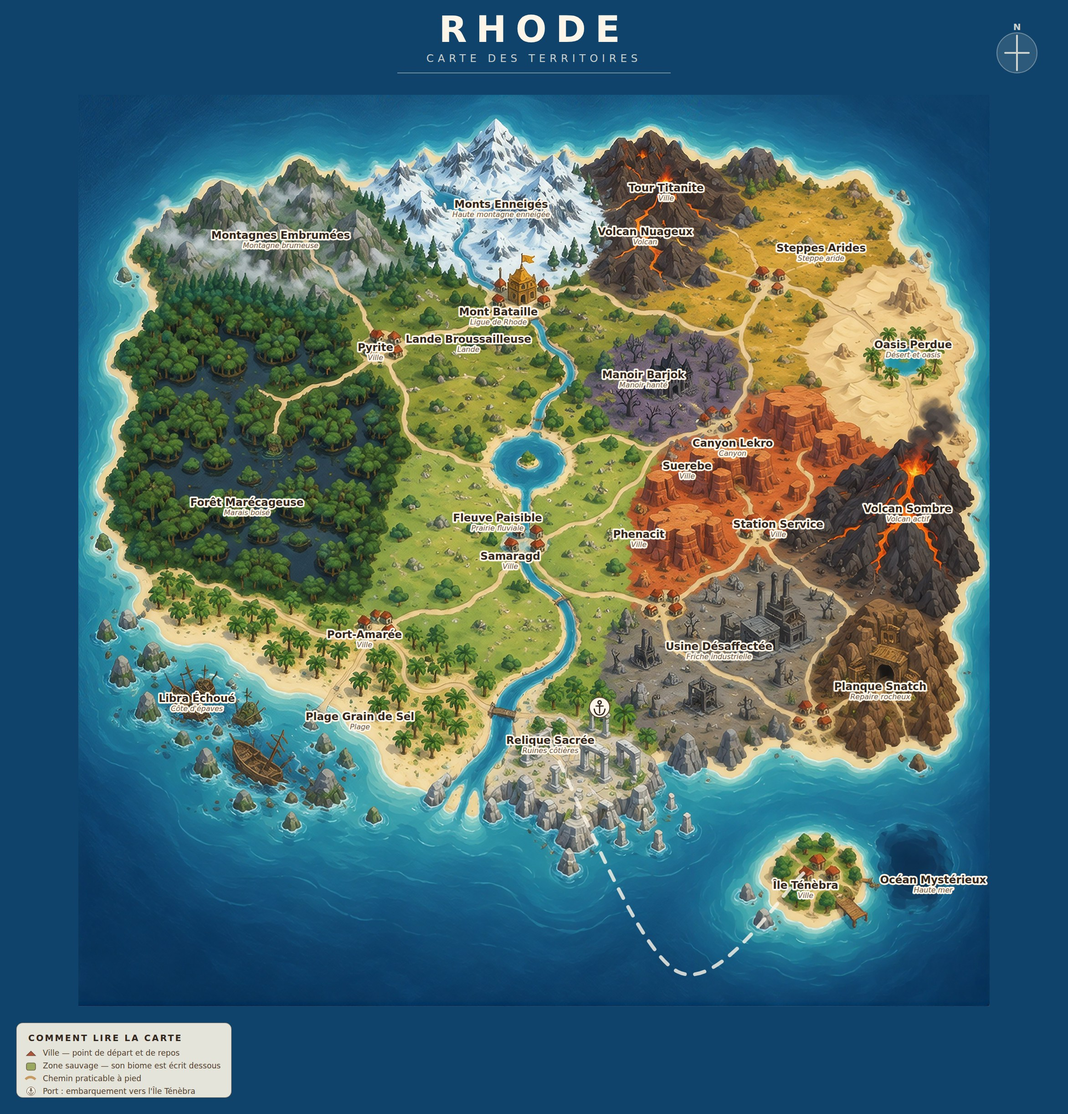
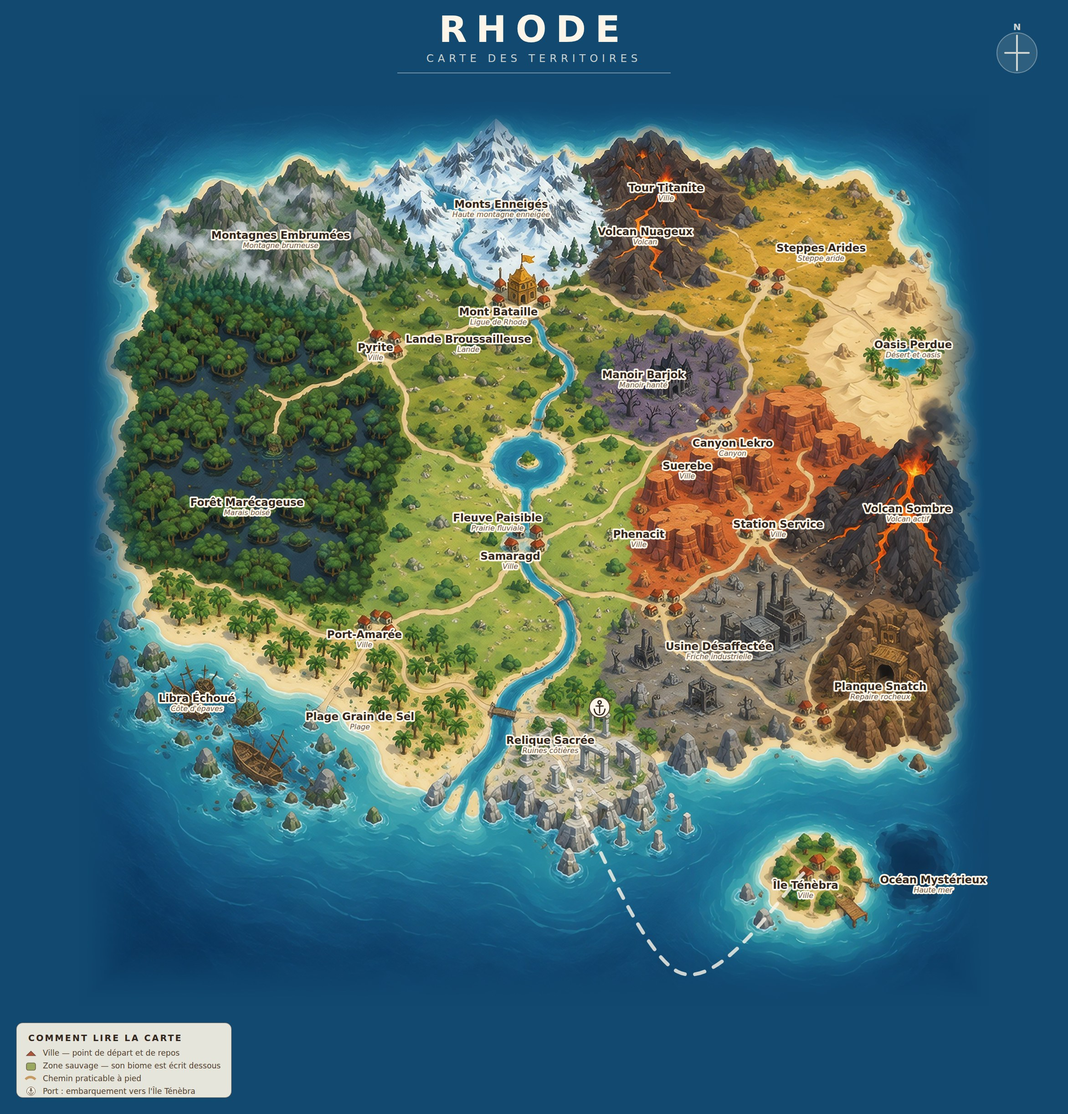
Les bords de la peinture fondus dans le décor
« Le fond de l'océan avec le fond bleu que tu as mis toi. »

LE DÉFAUT. La peinture est carrée, le cadre de la carte ne l'est pas :
il reste une bande de chaque côté, que la feuille remplit du bleu
relevé sur le bord de l'image. La couleur était la bonne — la même,
prélevée dessus — et pourtant la jointure se voyait.

Parce qu'un aplat n'est pas une peinture. L'océan du générateur a son
grain, ses courants, son léger assombrissement vers l'extérieur. Collé
contre un aplat parfaitement lisse, il s'arrête net : on ne voit pas
une différence de TEINTE, on voit une différence de MATIÈRE, et l'œil
la lit comme un bord d'image. C'est pour ça que faire coïncider les
deux couleurs n'avait pas suffi.

LA CORRECTION. On éteint le grain avant le bord : sur les cent
cinquante derniers pixels, la peinture glisse vers la couleur exacte
du décor. À l'endroit où elle s'arrête, elle EST le décor, et il n'y a
plus rien à voir. Sept pour cent de la largeur — assez pour que
l'extinction soit insensible, assez peu pour ne pas manger la mer
peinte, dont le continent commence à plus de deux cents pixels du
bord.

LA DISTANCE EST CELLE AU BORD LE PLUS PROCHE, pas au centre : un fondu
radial laisserait les quatre coins plus éteints que les milieux de
côté, et on verrait le cercle. Et la rampe est cubique, pas linéaire :
une rampe droite laisse voir ses deux extrémités, qui sont deux lignes
de plus.

LA COULEUR N'EST PAS CHOISIE, ELLE EST RELEVÉE, par médiane sur un
[…]

Changed region(s): [[0.872, 0.2177, 0.9343, 0.7152], [0.0623, 0.1866, 0.1246, 0.6841], [0.3737, 0.0622, 0.7163, 0.1555]]

diff --git a/css/wild-mystery.css b/css/wild-mystery.css
@@ -10464,7 +10464,7 @@ body.wm-liens-soulignes #modernbb a:not(.wm-suivante__bouton):not(.wm-panneau__l
     du tableau au lieu de s'y arrêter. L'alternative, `slice`, rognait
     la carte : on ne voyait plus Rhode en entier sans la traîner. */
 #modernbb .wm-carte--peinte .wm-carte__cadre {
-  background-color: var(--wm-carte-marge-peinte, #0f436b);
+  background-color: var(--wm-carte-marge-peinte, #114971);
   background-image: none;
 }
 

diff --git a/css/16-carte.css b/css/16-carte.css
@@ -391,7 +391,7 @@
     du tableau au lieu de s'y arrêter. L'alternative, `slice`, rognait
     la carte : on ne voyait plus Rhode en entier sans la traîner. */
 #modernbb .wm-carte--peinte .wm-carte__cadre {
-  background-color: var(--wm-carte-marge-peinte, #0f436b);
+  background-color: var(--wm-carte-marge-peinte, #114971);
   background-image: none;
 }
 

diff --git a/outils/carte-fondu.py b/outils/carte-fondu.py
@@ -1,0 +1,128 @@
+#!/usr/bin/env python3
+# ════════════════════════════════════════════════════════════════════
+#  outils/carte-fondu.py — fond les BORDS de la peinture dans le bleu
+#  du décor.
+#
+#  Demandé le 8 octobre : « tu pourrais éditer la photo pour que tout
+#  se fonde bien dans le décor ? […] le fond de l'océan avec le fond
+#  bleu que tu as mis toi. »
+#
+#  ── LE DÉFAUT ───────────────────────────────────────────────────────
+#
+#  La peinture est carrée, le cadre de la carte ne l'est pas : il
+#  reste une bande de chaque côté, que la feuille remplit du bleu
+#  relevé sur le bord de l'image. La couleur est la bonne — c'est la
+#  même, #0f436b, prélevée dessus — et pourtant la jointure SE VOIT.
+#
+#  Parce qu'un aplat n'est pas une peinture. L'océan du générateur a
+#  son grain, ses courants, son léger assombrissement vers l'extérieur.
+#  Collé contre un aplat parfaitement lisse, il s'arrête net : on ne
+#  voit pas une différence de teinte, on voit une différence de
+#  MATIÈRE, et l'œil la lit comme un bord d'image.
+#
+#  ── LA CORRECTION ───────────────────────────────────────────────────
+#
+#  On éteint le grain avant le bord. Sur les cent cinquante derniers
+#  pixels, la peinture glisse vers la couleur exacte du décor : à
+#  l'endroit où elle s'arrête, elle EST le décor, et il n'y a plus
+#  rien à voir.
+#
+#  LA COULEUR N'EST PAS CHOISIE, ELLE EST RELEVÉE sur le pourtour de
+#  l'image — et c'est elle que la feuille 16 reprend dans
+#  `--wm-carte-marge-peinte`. Le garde-fou n° 15 ne peut PAS la
+#  vérifier — cette variable n'est pas un jeton de charte, elle est
+#  dans `HORS_CHARTE` —, et c'est précisément pour ça que ce script
+#  l'écrit lui-même dans la feuille : personne d'autre ne s'apercevrait
+#  qu'elle ment.
+#
+#  ── POURQUOI PAS DE LA TRANSPARENCE ─────────────────────────────────
+#
+#  Un PNG dont les bords sont transparents se fondrait dans n'importe
+#  quel fond, et c'est séduisant. Mais il pèse trois fois le JPEG, et
+#  il est servi à chaque chargement de l'index. Le fond est fixe, des
+#  deux côtés et dans les deux thèmes — il n'y a rien à gagner à le
+#  décider au dernier moment.
+# ════════════════════════════════════════════════════════════════════
+
+import pathlib
+import re
+
+import numpy as np
+from PIL import Image
+
+SOURCE = pathlib.Path("planches/peinte/source.png")
+SORTIE = pathlib.Path("planches/peinte/fondue.png")
+POUR_LE_FORUM = pathlib.Path("planches/peinte/fond-forum.jpg")
+FEUILLE = pathlib.Path("css/16-carte.css")
+
+#  Sur combien de pixels la peinture s'éteint, et à partir d'où. Au
+#  deux millième, 150 font sept pour cent : assez pour que l'extinction
+#  soit insensible, assez peu pour ne pas manger la mer peinte — le
+#  continent commence à plus de deux cents pixels du bord.
+FONDU = 150
+
+#  La largeur du ruban sur lequel on relève la couleur du décor. Deux
+#  pixels suffiraient si le bord était pur ; huit lissent le bruit de
+#  compression sans aller chercher les premières vaguelettes.
+RUBAN = 8
+
+LARGEUR_FORUM = 1400
+
+
+def couleur_du_bord(rgb):
+    """La couleur moyenne du pourtour. La MÉDIANE et pas la moyenne :
+    un coin plus sombre, un reste de signature, un pixel aberrant
+    tireraient la moyenne et on obtiendrait un décor qui ne colle à
+    aucun des quatre côtés."""
+    bandes = [rgb[:RUBAN, :, :].reshape(-1, 3),
+              rgb[-RUBAN:, :, :].reshape(-1, 3),
+              rgb[:, :RUBAN, :].reshape(-1, 3),
+              rgb[:, -RUBAN:, :].reshape(-1, 3)]
+    return np.median(np.concatenate(bandes), axis=0)
+
+
+def main():
+    im = Image.open(SOURCE).convert("RGB")
+    rgb = np.asarray(im).astype(np.float32)
+    h, w = rgb.shape[:2]
+
+    fond = couleur_du_bord(rgb)
+    hexa = "#%02x%02x%02x" % tuple(int(round(c)) for c in fond)
+    print(f"   décor relevé sur l'image : {hexa}")
+
+    #  La distance au bord le plus proche, en pixels. Pas une distance
+    #  au centre : un fondu radial laisserait les quatre coins plus
+    #  éteints que les milieux de côté, et on verrait le cercle.
+    ys = np.minimum(np.arange(h), h - 1 - np.arange(h)).astype(np.float32)
+    xs = np.minimum(np.arange(w), w - 1 - np.arange(w)).astype(np.float32)
+    d = np.minimum(ys[:, None], xs[None, :])
+
+    #  1 au cœur, 0 au bord, avec départ et arrivée à plat : une rampe
+    #  linéaire laisse voir ses deux extrémités, qui sont deux lignes
+    #  droites de plus.
+    t = np.clip(d / FONDU, 0.0, 1.0)
+    t = t * t * (3 - 2 * t)
+
+    sortie = rgb * t[:, :, None] + fond[None, None, :] * (1 - t[:, :, None])
+    Image.fromarray(np.clip(sortie, 0, 255).astype(np.uint8)).save(SORTIE)
+
+    petite = Image.fromarray(np.clip(sortie, 0, 255).astype(np.uint8)) \
+        .resize((LARGEUR_FORUM, LARGEUR_FORUM), Image.LANCZOS)
+    petite.save(POUR_LE_FORUM, quality=84, optimize=True)
+
+    #  ── LA FEUILLE SUIT L'IMAGE ───────────────────────────────────
+    #  Écrire la couleur à la main dans la feuille, c'est la voir
+    #  dériver à la première peinture suivante. On la pose ici.
+    css = FEUILLE.read_text()
+    neuf = re.sub(r"(--wm-carte-marge-peinte, )#[0-9a-f]{6}", rf"\1{hexa}", css)
+    if neuf != css:
+        FEUILLE.write_text(neuf)
+        print(f"   css/16-carte.css : repli mis à {hexa}")
+
+    poids = POUR_LE_FORUM.stat().st_size // 1024
+    print(f"   fondu sur {FONDU} px · {SORTIE.name} · "
+          f"{POUR_LE_FORUM.name} {poids} Ko")
+
+
+if __name__ == "__main__":
+    main()

diff --git a/outils/carte-affiche.py b/outils/carte-affiche.py
@@ -512,7 +512,19 @@ def ecarter(lieux):
 
 # ── l'affiche ───────────────────────────────────────────────────────
 
-PEINTE = pathlib.Path("planches/peinte/source.png")
+PEINTE = pathlib.Path("planches/peinte/fondue.png")
+
+
+def bleu_du_decor():
+    """La couleur du pourtour de la peinture, par médiane — la même
+    que celle que `carte-fondu.py` pose dans la feuille 16."""
+    from PIL import Image
+    import numpy as np
+    a = np.asarray(Image.open(PEINTE).convert("RGB")).astype(np.float32)
+    bandes = [a[:8, :, :].reshape(-1, 3), a[-8:, :, :].reshape(-1, 3),
+              a[:, :8, :].reshape(-1, 3), a[:, -8:, :].reshape(-1, 3)]
+    m = np.median(np.concatenate(bandes), axis=0)
+    return "#%02x%02x%02x" % tuple(int(round(c)) for c in m)
 
 
 def lien_de_la_peinture():
@@ -526,9 +538,9 @@ def lien_de_la_peinture():
     Le livrable, c'est le PNG et le JPEG : eux sont entiers par
     nature. Le SVG est un FICHIER SOURCE, il vit à côté de son image,
     et un chemin relatif est ce qu'on attend d'un fichier source.
-    `planches/peinte/source.png` depuis `planches/` donne donc
-    `peinte/source.png`."""
-    return "peinte/source.png"
+    `planches/peinte/fondue.png` depuis `planches/` donne donc
+    `peinte/fondue.png`."""
+    return "peinte/fondue.png"
 
 
 def dessiner_a_la_main(out, carte, lieux, x0, y0, L, H):
@@ -727,8 +739,13 @@ def main():
         #  sait pas faire : les NOMS. Vingt-six, au bon endroit, dans
         #  la bonne typographie, écartés par relaxation, avec leur
         #  biome dessous, l'ancre du port et la légende.
+        #  LE FOND DE L'AFFICHE EST LA COULEUR DU BORD DE LA PEINTURE,
+        #  relevée dessus et pas choisie : c'est elle que l'image rejoint
+        #  sur ses cent cinquante derniers pixels. Écrite en dur, elle
+        #  dériverait à la première peinture suivante et on reverrait le
+        #  carré.
         out.append(f'<rect x="{x0}" y="{y0}" width="{L}" height="{H}" '
-                   f'fill="#0f436b"/>')
+                   f'fill="{bleu_du_decor()}"/>')
         out.append(f'<image href="{lien_de_la_peinture()}" x="0" y="0" '
                    f'width="{carte["repere"]["largeur"]}" '
                    f'height="{carte["repere"]["hauteur"]}"/>')

diff --git a/outils/carte-peinte.py b/outils/carte-peinte.py
@@ -221,6 +221,12 @@ def main():
     plein = propriete[idx[0], idx[1]]
     plein[~continent] = 0
 
+    #  ON GARDE LA CARTE DES ZONES, en image : `outils/carte-fondu.py`
+    #  en a besoin pour savoir où sont les coutures, et la recalculer
+    #  chez lui voudrait dire tenir deux fois les mêmes graines — donc
+    #  les voir diverger un jour.
+    Image.fromarray(plein.astype(np.uint8)).save("planches/peinte/zones.png")
+
     lieux = []
     for n_, (forum, nom, gx, gy, tol, rayon) in enumerate(GRAINES, start=1):
         region = ndimage.binary_closing(plein == n_, iterations=2)
@@ -352,6 +358,12 @@ def main():
         json.dumps(carte, ensure_ascii=False, indent=2) + "\n")
     print(f"peinte : {len(fusion)} lieux fusionnés, "
           f"{len(carte['iles'])} île(s), {len(perdus)} perdu(s)")
+    #  LA MER VECTORIELLE A ÉTÉ EMPORTÉE, et c'est voulu : elle était
+    #  calculée sur l'ancienne côte. Mais elle doit revenir — c'est
+    #  elle qu'on voit si la peinture ne charge pas, et une carte sans
+    #  mer est un continent qui flotte sur le fond du cadre.
+    print("   ↳ enchaîner « python3 outils/carte-mer.py », "
+          "la mer est le repli de la peinture")
 
 
 if __name__ == "__main__":
